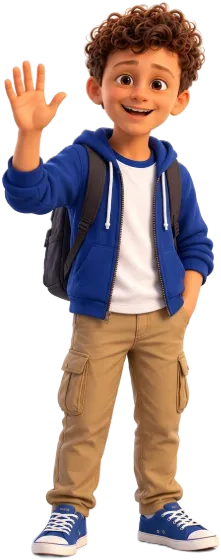
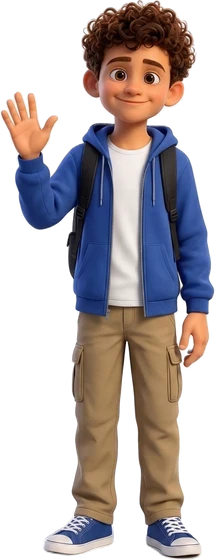
v4.5: guias liberados pela trilha, Meu armário com 24 roupas e acessórios, visual novo de Caio, Vinícius e Letícia

diff --git a/index.html b/index.html
@@ -704,7 +704,7 @@ body.sem-anim .pulsa{animation:none}
 
 <script>
 /* Configuração do build (tools/build.js troca esta linha): proposta = versão de teste local, sem servidor */
-const BUILD={"proposta":false,"versao":"4.4.2"} /* Trilha v4.4.2 · gerado por tools/build.js oficial */;
+const BUILD={"proposta":false,"versao":"4.5"} /* Trilha v4.5 · gerado por tools/build.js oficial */;
 /* ---------- Ícones ---------- */
 const I = {
   rhythm:'<svg viewBox="0 0 24 24"><rect x="3" y="5" width="18" height="16" rx="3" fill="#0B7A7D"/><rect x="3" y="5" width="18" height="5" rx="2" fill="#09274D"/><path d="m8 15 2.5 2.5L16 12" stroke="#fff" stroke-width="2.2" fill="none" stroke-linecap="round" stroke-linejoin="round"/></svg>',
@@ -13539,7 +13539,7 @@ try{if(typeof document!=='undefined'&&document.head&&document.createElement){con
    - Guias à venda na Loja saem da vitrine (quem já comprou continua com eles); o prêmio do Ritmo (Bia) continua.
    - O guia continua sendo S.guide, lido por guideId() (07-app-base.js). Etapa terminada = todas as lições das unidades da etapa feitas.
    - Chave GUIAS_POR_ETAPA (ligada). Desligada, tudo volta como antes. */
-let GUIAS_POR_ETAPA=!!(typeof BUILD!=='undefined'&&BUILD.proposta); // v4.5: só no teste até o OK de publicação
+let GUIAS_POR_ETAPA=true; // no ar desde a v4.5 (19/11/2026)
 let TIKO_SEMPRE_LIBERADO=true; // confirmado pelo Rodrigo (18/11/2026): o Tiko vem liberado desde o início em todas as turmas. false = entra na fila da trilha
 const guiasPorEtapa=()=>!!GUIAS_POR_ETAPA;
 // turma → guia padrão, segundo guia (etapa 1) e a fila das próximas etapas, do mais perto ao mais longe da idade
@@ -13700,12 +13700,17 @@ try{if(typeof document!=='undefined'&&document.head&&document.createElement){con
    - As roupas entram no SHOP (kind 'roupa') para a meta do Sonho, o Banco e a Área dos responsáveis funcionarem, mas não aparecem
      na vitrine da Loja: lá fica só a entrada "Meu armário".
    - Chave ARMARIO (ligada). Desligada, some a entrada do Mais e da Loja e a figura volta a ser sempre a padrão. */
-let ARMARIO=!!(typeof BUILD!=='undefined'&&BUILD.proposta); // v4.5: só no teste até o OK de publicação
+let ARMARIO=true; // no ar desde a v4.5 (19/11/2026)
 const armarioAtivo=()=>!!ARMARIO;
 const POSES_ROUPA=['oi','aponta','fim'];
 // roupas cuja arte já chegou (as 3 poses em arte/), no formato '<personagem>-<roupa>', por exemplo 'bia-esporte'. Hoje, nenhuma.
-let ROUPAS_COM_ARTE=[];
-const TIPOS_ROUPA={esporte:'Roupa de esporte',festa:'Roupa de festa',inverno:'Roupa de inverno'};
+let ROUPAS_COM_ARTE=['mel-esporte','mel-festa','mel-verao','bia-esporte','bia-festa','bia-verao','caio-esporte','caio-festa','caio-verao','vinicius-esporte','vinicius-festa','vinicius-verao','leticia-esporte','leticia-festa','leticia-verao','natty-esporte','natty-festa','natty-verao','rodrigo-esporte','rodrigo-festa','rodrigo-verao','tiko-esporte','tiko-festa','tiko-verao']; // teste da Mel (sessão Redes, 18/11), esperando a aprovação do Rodrigo
+const TIPOS_ROUPA={esporte:'Roupa de esporte',festa:'Roupa de festa',verao:'Roupa de verão'};
+// o Tiko ganha só acessórios por tema, não roupas (decisão do Rodrigo, 18/11/2026)
+const TIPOS_ACESS={esporte:'Acessórios de esporte',festa:'Acessórios de festa',verao:'Acessórios de verão'};
+const ehAcess=q=>q==='tiko';
+const tipoNome=(roupa,q)=>(ehAcess(q)?TIPOS_ACESS:TIPOS_ROUPA)[roupa];
+const comO=(r)=>ehAcess(r.quem)?'com os '+tipoNome(r.roupa,r.quem).toLowerCase():'com a '+tipoNome(r.roupa,r.quem).toLowerCase();
 // conquistas que liberam roupa de graça (texto curto, sem pressa)
 const CONQUISTAS_ROUPA={
   etapa1:{txt:'Termine a etapa 1 da trilha',ok:()=>etapasTerminadas()>=1},
@@ -13717,18 +13722,18 @@ const CONQUISTAS_ROUPA={
 };
 // personagem, roupa, preço em Sementes (0 = de graça), conquista que libera (só nas de graça)
 const ROUPAS_DADOS=[
-  ['tiko','esporte',40,null],    ['tiko','festa',90,null],    ['tiko','inverno',0,'etapa1'],
-  ['bia','esporte',40,null],     ['bia','festa',90,null],     ['bia','inverno',0,'familia'],
-  ['mel','esporte',40,null],     ['mel','festa',90,null],     ['mel','inverno',0,'prata'],
-  ['caio','esporte',40,null],    ['caio','festa',90,null],    ['caio','inverno',0,'etapa2'],
-  ['vinicius','esporte',40,null],['vinicius','festa',90,null],['vinicius','inverno',0,'ouro'],
-  ['leticia','esporte',40,null], ['leticia','festa',90,null], ['leticia','inverno',0,'etapa3'],
-  ['natty','esporte',40,null],   ['natty','festa',90,null],   ['natty','inverno',0,'familia'],
-  ['rodrigo','esporte',40,null], ['rodrigo','festa',90,null], ['rodrigo','inverno',0,'ouro']
+  ['tiko','esporte',40,null],    ['tiko','festa',90,null],    ['tiko','verao',0,'etapa1'],
+  ['bia','esporte',40,null],     ['bia','festa',90,null],     ['bia','verao',0,'familia'],
+  ['mel','esporte',40,null],     ['mel','festa',90,null],     ['mel','verao',0,'prata'],
+  ['caio','esporte',40,null],    ['caio','festa',90,null],    ['caio','verao',0,'etapa2'],
+  ['vinicius','esporte',40,null],['vinicius','festa',90,null],['vinicius','verao',0,'ouro'],
+  ['leticia','esporte',40,null], ['leticia','festa',90,null], ['leticia','verao',0,'etapa3'],
+  ['natty','esporte',40,null],   ['natty','festa',90,null],   ['natty','verao',0,'familia'],
+  ['rodrigo','esporte',40,null], ['rodrigo','festa',90,null], ['rodrigo','verao',0,'ouro']
 ];
 const arquivoRoupa=(quem,roupa,pose)=>`${ART}${quem}-${roupa}-${pose}.webp`;
 const ROUPAS=ROUPAS_DADOS.filter(([q])=>CHARS[q]).map(([quem,roupa,preco,conquista])=>({id:`roupa-${quem}-${roupa}`,quem,roupa,
-  nome:`${TIPOS_ROUPA[roupa]} ${doDa(quem)} ${nomeDe(quem)}`,preco,conquista,
+  nome:`${tipoNome(roupa,quem)} ${doDa(quem)} ${nomeDe(quem)}`,preco,conquista,
   arte:Object.fromEntries(POSES_ROUPA.map(p=>[p,arquivoRoupa(quem,roupa,p)]))}));
 // a roupa só existe no jogo quando a arte chegou
 const roupaPronta=r=>!!r&&ROUPAS_COM_ARTE.includes(r.id.replace(/^roupa-/,''));
@@ -13779,10 +13784,10 @@ function roupasGanhasNovas(){if(!armarioAtivo())return [];const vistas=S.roupasA
   return ROUPAS.filter(r=>r.conquista&&roupaPronta(r)&&conquistaOk(r)&&!vistas[r.id]&&!(S.owned&&S.owned[r.id]))}
 function janelaRoupaNova(r){
   const m=modal(`<div class="celebra"><div class="celebra-ico" aria-hidden="true"><img class="arm-img" src="${r.arte.oi}" alt="" onerror="this.remove()"></div>
-    <h2>Roupa nova: ${r.nome}!</h2><p>Você ganhou por: ${CONQUISTAS_ROUPA[r.conquista].txt.toLowerCase()}.</p>
+    <h2>${ehAcess(r.quem)?"Acessório novo":"Roupa nova"}: ${r.nome}!</h2><p>Você ganhou por: ${CONQUISTAS_ROUPA[r.conquista].txt.toLowerCase()}.</p>
     <div class="row"><button class="btn" id="rn-ok">Vestir agora</button><button class="sbtn" id="rn-depois">Depois</button></div></div>`);
   const ok=m.querySelector('#rn-ok'),dp=m.querySelector('#rn-depois');
-  if(ok)ok.onclick=()=>{m.remove();vestir(r.id);render();toast(`${nomeDe(r.quem)} está com a ${TIPOS_ROUPA[r.roupa].toLowerCase()}.`)};
+  if(ok)ok.onclick=()=>{m.remove();vestir(r.id);render();toast(`${nomeDe(r.quem)} está ${comO(r)}.`)};
   if(dp)dp.onclick=()=>{m.remove();render()};
   try{tone(true)}catch(e){}return m;
 }
@@ -13800,12 +13805,12 @@ let armarioQuem=null;
 const CAMISA='<svg viewBox="0 0 48 48" width="56" height="56" aria-hidden="true"><path d="M17 6l-11 7 5 9 5-3v23h16V19l5 3 5-9-11-7c-1 4-4 6-7 6s-6-2-7-6z" fill="currentColor"/></svg>';
 function cartaoRoupa(r,quem){
   if(!r){const vest=!roupaVestida(quem);
-    return `<div class="arm-item tem ${vest?'vestindo':''}"><div class="arm-fig"><img class="arm-img" src="${ART}${quem}-oi.webp" alt="" onerror="this.remove()"></div><b>Roupa de sempre</b>
+    return `<div class="arm-item tem ${vest?'vestindo':''}"><div class="arm-fig"><img class="arm-img" src="${ART}${quem}-oi.webp" alt="" onerror="this.remove()"></div><b>${ehAcess(quem)?"Sem acessório":"Roupa de sempre"}</b>
       ${vest?'<span class="arm-st ok">✓ Vestindo</span>':`<button class="sbtn pri" data-act="armVestir" data-q="${quem}" data-id="" aria-label="Vestir a roupa de sempre ${noNa(quem)} ${nomeDe(quem)}">Vestir</button>`}</div>`}
   const como=r.preco?`🌱 ${r.preco} Sementes`:`🔒 ${CONQUISTAS_ROUPA[r.conquista].txt}`;
   const fig=roupaPronta(r)?`<img class="arm-img" src="${r.arte.oi}" alt="" onerror="this.remove()">`:`<span class="arm-camisa" style="color:${CHARS[quem].color}">${CAMISA}</span>`;
-  const nome=TIPOS_ROUPA[r.roupa];
-  if(!roupaPronta(r))return `<div class="arm-item falta embreve" aria-label="${nome}: em breve. ${como.replace(/^\S+ /,'')}."><div class="arm-fig">${fig}</div><b>${nome}</b><span class="arm-tag">Em breve</span><span class="arm-st">${como}</span></div>`;
+  const nome=tipoNome(r.roupa,r.quem);
+  if(!roupaPronta(r))return `<div class="arm-item falta embreve" aria-label="${nome}: em breve. ${como.replace(/^\S+ /,'')}."><div class="arm-fig">${fig}</div><b>${nome}</b><span class="arm-tag">Em breve</span><small class="arm-prox">Chega numa próxima versão.</small><span class="arm-st">${como}</span></div>`;
   if(temRoupa(r)){const vest=roupaVestida(quem)===r;
     return `<div class="arm-item tem ${vest?'vestindo':''}"><div class="arm-fig">${fig}</div><b>${nome}</b>${vest?'<span class="arm-st ok">✓ Vestindo</span>':`<button class="sbtn pri" data-act="armVestir" data-q="${quem}" data-id="${r.id}" aria-label="Vestir ${r.nome}">Vestir</button>`}</div>`}
   return `<div class="arm-item falta"><div class="arm-fig">${fig}</div><b>${nome}</b><span class="arm-st">${como}</span>${r.preco?`<button class="sbtn" data-act="armComprar" data-id="${r.id}" aria-label="Comprar ${r.nome}">Comprar</button>`:''}</div>`;
@@ -13824,7 +13829,7 @@ function viewArmario(){
 }
 TELAS_EXTRA.armario=viewArmario;
 ACT.armQuem=d=>{armarioQuem=d.q;render()};
-ACT.armVestir=d=>{const r=roupaPorId(d.id);if(!vestir(d.id,d.q))return;render();toast(r?`${nomeDe(r.quem)} está com a ${TIPOS_ROUPA[r.roupa].toLowerCase()}.`:`${nomeDe(d.q)} voltou para a roupa de sempre.`)};
+ACT.armVestir=d=>{const r=roupaPorId(d.id);if(!vestir(d.id,d.q))return;render();toast(r?`${nomeDe(r.quem)} está ${comO(r)}.`:`${nomeDe(d.q)} voltou para a roupa de sempre.`)};
 // janela de compra: de qual pote sai e quanto fica; sem Sementes bastantes, a opção de juntar no Sonho
 function janelaCompraRoupa(id){
   const r=roupaPorId(id);if(!r||!r.preco||!roupaPronta(r)||(S.owned&&S.owned[id]))return null;
@@ -13832,7 +13837,7 @@ function janelaCompraRoupa(id){
   const corpo=da?`<p>Sai do pote <b>Agora</b>: você tem ${f0(tem)} e fica com ${f0(tem-r.preco)}.</p>
       <div class="row"><button class="btn" id="ac-sim">Comprar</button><button class="sbtn" id="ac-nao">Agora não</button></div>`
     :`<p>Sai do pote <b>Agora</b>, que tem ${f0(tem)}. Faltam ${f0(r.preco-tem)}.</p>
-      <p>Dá para juntar no pote <b>Sonho</b>: a roupa vira a meta do Sonho, e o Banco mostra quanto falta.</p>
+      <p>Dá para guardar no pote <b>Sonho</b> e fazer dessa roupa a sua meta. O Banco mostra quanto falta.</p>
       <div class="row">${ehSonho?'<span class="loja-em-uso">✓ É o seu Sonho</span>':'<button class="btn" id="ac-sonho">Fazer dela o meu Sonho</button>'}<button class="sbtn" id="ac-nao">Agora não</button></div>`;
   const m=modal(`<div class="arm-compra"><div class="arm-fig"><img class="arm-img" src="${r.arte.oi}" alt="" onerror="this.remove()"></div><h2>${r.nome}</h2>
     <p class="arm-preco">Preço: ${r.preco} Sementes</p>${corpo}</div>`);
@@ -13882,7 +13887,7 @@ try{if(typeof document!=='undefined'&&document.head&&document.createElement){con
      na tabela VOZ_PERSONAGEM. A velocidade multiplica a de hoje (0,9 nas turmas 5-7 e 8-10; 1 nas outras).
    - Custo zero e sem internet. A fase 2 (frases gravadas) depende do OK do custo e não está aqui.
    - Guardado em S.vozLe ('aparelho' ou 'guia'). Chave VOZ_GUIA (ligada). Desligada, a voz é sempre a do aparelho e a opção some. */
-let VOZ_GUIA=!!(typeof BUILD!=='undefined'&&BUILD.proposta); // v4.5: só no teste até o OK de publicação
+let VOZ_GUIA=false; // curadoria 18/11: a voz do guia só entra com as vozes oficiais da sessão Redes; até lá, só a voz do aparelho
 // tom: 1 é o normal (0 a 2). Velocidade: 1 é a de hoje. Ajuste aqui.
 const VOZ_PERSONAGEM={
   tiko:    {pitch:1.35,rate:1.05}, // mascote, animado

diff --git a/sw.js b/sw.js
@@ -1,6 +1,6 @@
-// Service worker da Trilha v4.4.2: guarda o jogo e a arte para funcionar sem internet.
-const CACHE='mdc-trilha-v4.4.2-7375e6a9';
-const SHELL=["./","index.html","manifest.webmanifest","arte/bia-aponta.webp","arte/bia-cheer.webp","arte/bia-fim.webp","arte/bia-idle.webp","arte/bia-obj.webp","arte/bia-oi.webp","arte/bia-ok.webp","arte/bia-pensa.webp","arte/bia-wow.webp","arte/caio-aponta.webp","arte/caio-cheer.webp","arte/caio-fim.webp","arte/caio-idle.webp","arte/caio-obj.webp","arte/caio-oi.webp","arte/caio-ok.webp","arte/caio-pensa.webp","arte/caio-think.webp","arte/leticia-aponta.webp","arte/leticia-cheer.webp","arte/leticia-fim.webp","arte/leticia-idle.webp","arte/leticia-obj.webp","arte/leticia-oi.webp","arte/leticia-ok.webp","arte/leticia-pensa.webp","arte/leticia-think.webp","arte/logo-main.webp","arte/mel-aponta.webp","arte/mel-cheer.webp","arte/mel-fim.webp","arte/mel-idle.webp","arte/mel-obj.webp","arte/mel-oi.webp","arte/mel-ok.webp","arte/mel-pensa.webp","arte/mel-think.webp","arte/natty-aponta.webp","arte/natty-cheer.webp","arte/natty-fim.webp","arte/natty-idle.webp","arte/natty-obj.webp","arte/natty-oi.webp","arte/natty-ok.webp","arte/natty-pensa.webp","arte/natty-think.webp","arte/rodrigo-aponta.webp","arte/rodrigo-cheer.webp","arte/rodrigo-fim.webp","arte/rodrigo-idle.webp","arte/rodrigo-obj.webp","arte/rodrigo-oi.webp","arte/rodrigo-ok.webp","arte/rodrigo-pensa.webp","arte/rodrigo-think.webp","arte/tiko-aponta.webp","arte/tiko-cheer.webp","arte/tiko-fim.webp","arte/tiko-idle.webp","arte/tiko-lupa.webp","arte/tiko-obj.webp","arte/tiko-oi.webp","arte/tiko-ok.webp","arte/tiko-pensa.webp","arte/tiko-think.webp","arte/tiko-wow.webp","arte/vinicius-aponta.webp","arte/vinicius-cheer.webp","arte/vinicius-fim.webp","arte/vinicius-idle.webp","arte/vinicius-obj.webp","arte/vinicius-oi.webp","arte/vinicius-ok.webp","arte/vinicius-pensa.webp","arte/vinicius-think.webp","arte/vinicius-wow.webp","arte/icons/apple-touch-icon.png","arte/icons/favicon-32.png","arte/icons/icon-192.png","arte/icons/icon-512.png","arte/icons/icon-maskable-512.png"];
+// Service worker da Trilha v4.5: guarda o jogo e a arte para funcionar sem internet.
+const CACHE='mdc-trilha-v4.5-323e3d0e';
+const SHELL=["./","index.html","manifest.webmanifest","arte/bia-aponta.webp","arte/bia-cheer.webp","arte/bia-esporte-aponta.webp","arte/bia-esporte-fim.webp","arte/bia-esporte-oi.webp","arte/bia-festa-aponta.webp","arte/bia-festa-fim.webp","arte/bia-festa-oi.webp","arte/bia-fim.webp","arte/bia-idle.webp","arte/bia-obj.webp","arte/bia-oi.webp","arte/bia-ok.webp","arte/bia-pensa.webp","arte/bia-verao-aponta.webp","arte/bia-verao-fim.webp","arte/bia-verao-oi.webp","arte/bia-wow.webp","arte/caio-aponta.webp","arte/caio-cheer.webp","arte/caio-esporte-aponta.webp","arte/caio-esporte-fim.webp","arte/caio-esporte-oi.webp","arte/caio-festa-aponta.webp","arte/caio-festa-fim.webp","arte/caio-festa-oi.webp","arte/caio-fim.webp","arte/caio-idle.webp","arte/caio-obj.webp","arte/caio-oi.webp","arte/caio-ok.webp","arte/caio-pensa.webp","arte/caio-think.webp","arte/caio-verao-aponta.webp","arte/caio-verao-fim.webp","arte/caio-verao-oi.webp","arte/leticia-aponta.webp","arte/leticia-cheer.webp","arte/leticia-esporte-aponta.webp","arte/leticia-esporte-fim.webp","arte/leticia-esporte-oi.webp","arte/leticia-festa-aponta.webp","arte/leticia-festa-fim.webp","arte/leticia-festa-oi.webp","arte/leticia-fim.webp","arte/leticia-idle.webp","arte/leticia-obj.webp","arte/leticia-oi.webp","arte/leticia-ok.webp","arte/leticia-pensa.webp","arte/leticia-think.webp","arte/leticia-verao-aponta.webp","arte/leticia-verao-fim.webp","arte/leticia-verao-oi.webp","arte/logo-main.webp","arte/mel-aponta.webp","arte/mel-cheer.webp","arte/mel-esporte-aponta.webp","arte/mel-esporte-fim.webp","arte/mel-esporte-oi.webp","arte/mel-festa-aponta.webp","arte/mel-festa-fim.webp","arte/mel-festa-oi.webp","arte/mel-fim.webp","arte/mel-idle.webp","arte/mel-obj.webp","arte/mel-oi.webp","arte/mel-ok.webp","arte/mel-pensa.webp","arte/mel-think.webp","arte/mel-verao-aponta.webp","arte/mel-verao-fim.webp","arte/mel-verao-oi.webp","arte/natty-aponta.webp","arte/natty-cheer.webp","arte/natty-esporte-aponta.webp","arte/natty-esporte-fim.webp","arte/natty-esporte-oi.webp","arte/natty-festa-aponta.webp","arte/natty-festa-fim.webp","arte/natty-festa-oi.webp","arte/natty-fim.webp","arte/natty-idle.webp","arte/natty-obj.webp","arte/natty-oi.webp","arte/natty-ok.webp","arte/natty-pensa.webp","arte/natty-think.webp","arte/natty-verao-aponta.webp","arte/natty-verao-fim.webp","arte/natty-verao-oi.webp","arte/rodrigo-aponta.webp","arte/rodrigo-cheer.webp","arte/rodrigo-esporte-aponta.webp","arte/rodrigo-esporte-fim.webp","arte/rodrigo-esporte-oi.webp","arte/rodrigo-festa-aponta.webp","arte/rodrigo-festa-fim.webp","arte/rodrigo-festa-oi.webp","arte/rodrigo-fim.webp","arte/rodrigo-idle.webp","arte/rodrigo-obj.webp","arte/rodrigo-oi.webp","arte/rodrigo-ok.webp","arte/rodrigo-pensa.webp","arte/rodrigo-think.webp","arte/rodrigo-verao-aponta.webp","arte/rodrigo-verao-fim.webp","arte/rodrigo-verao-oi.webp","arte/tiko-aponta.webp","arte/tiko-cheer.webp","arte/tiko-esporte-aponta.webp","arte/tiko-esporte-fim.webp","arte/tiko-esporte-oi.webp","arte/tiko-festa-aponta.webp","arte/tiko-festa-fim.webp","arte/tiko-festa-oi.webp","arte/tiko-fim.webp","arte/tiko-idle.webp","arte/tiko-lupa.webp","arte/tiko-obj.webp","arte/tiko-oi.webp","arte/tiko-ok.webp","arte/tiko-pensa.webp","arte/tiko-think.webp","arte/tiko-verao-aponta.webp","arte/tiko-verao-fim.webp","arte/tiko-verao-oi.webp","arte/tiko-wow.webp","arte/vinicius-aponta.webp","arte/vinicius-cheer.webp","arte/vinicius-esporte-aponta.webp","arte/vinicius-esporte-fim.webp","arte/vinicius-esporte-oi.webp","arte/vinicius-festa-aponta.webp","arte/vinicius-festa-fim.webp","arte/vinicius-festa-oi.webp","arte/vinicius-fim.webp","arte/vinicius-idle.webp","arte/vinicius-obj.webp","arte/vinicius-oi.webp","arte/vinicius-ok.webp","arte/vinicius-pensa.webp","arte/vinicius-think.webp","arte/vinicius-verao-aponta.webp","arte/vinicius-verao-fim.webp","arte/vinicius-verao-oi.webp","arte/vinicius-wow.webp","arte/icons/apple-touch-icon.png","arte/icons/favicon-32.png","arte/icons/icon-192.png","arte/icons/icon-512.png","arte/icons/icon-maskable-512.png"];
 self.addEventListener('install',e=>{e.waitUntil(caches.open(CACHE).then(c=>c.addAll(SHELL)).then(()=>self.skipWaiting()))});
 self.addEventListener('activate',e=>{e.waitUntil(caches.keys().then(ks=>Promise.all(ks.filter(k=>k!==CACHE).map(k=>caches.delete(k)))).then(()=>self.clients.claim()))});
 self.addEventListener('fetch',e=>{

diff --git a/README.md b/README.md
@@ -1,6 +1,6 @@
 # Trilha Dinheiro
 
-Protótipo jogável (v4.4.2) do jogo de educação financeira do Missão Dinheiro Club, em versão instalável (PWA).
+Protótipo jogável (v4.5) do jogo de educação financeira do Missão Dinheiro Club, em versão instalável (PWA).
 
 - Abra o link do GitHub Pages no celular e toque em "Instalar" (Android) ou em Compartilhar > Adicionar à Tela de Início (iPhone).
 - O progresso fica salvo no aparelho. O jogo envia dados de uso sem nome (tipo de aparelho, faixa, perfil opcional e resumo semanal) para melhorar a experiência; o envio pode ser desligado no rodapé, o que apaga esses dados do servidor. O jogo não usa dinheiro de verdade.
